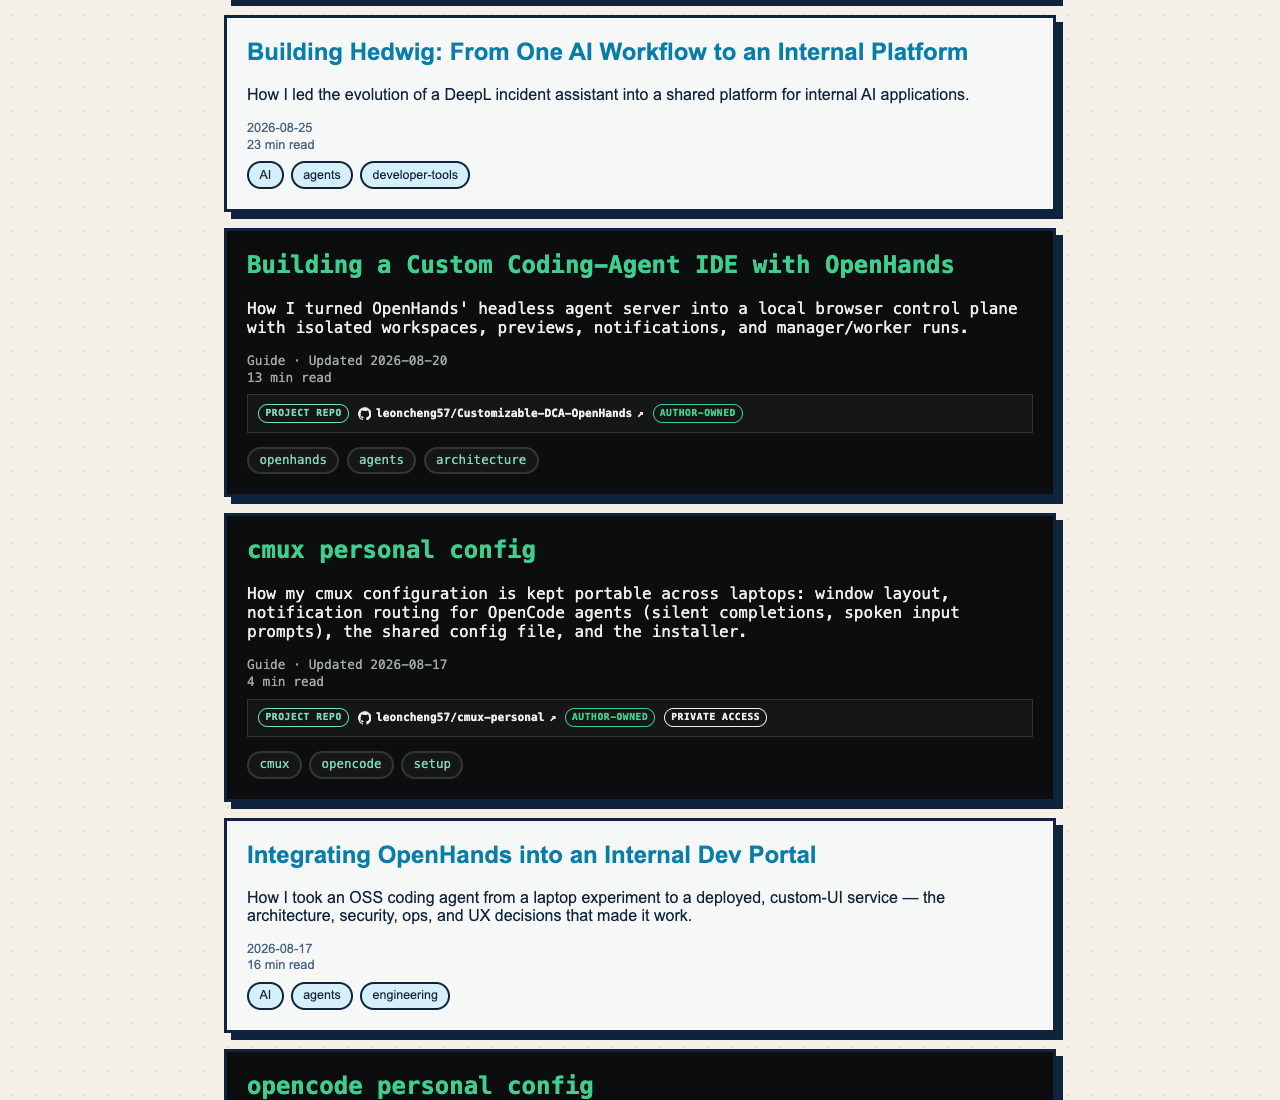
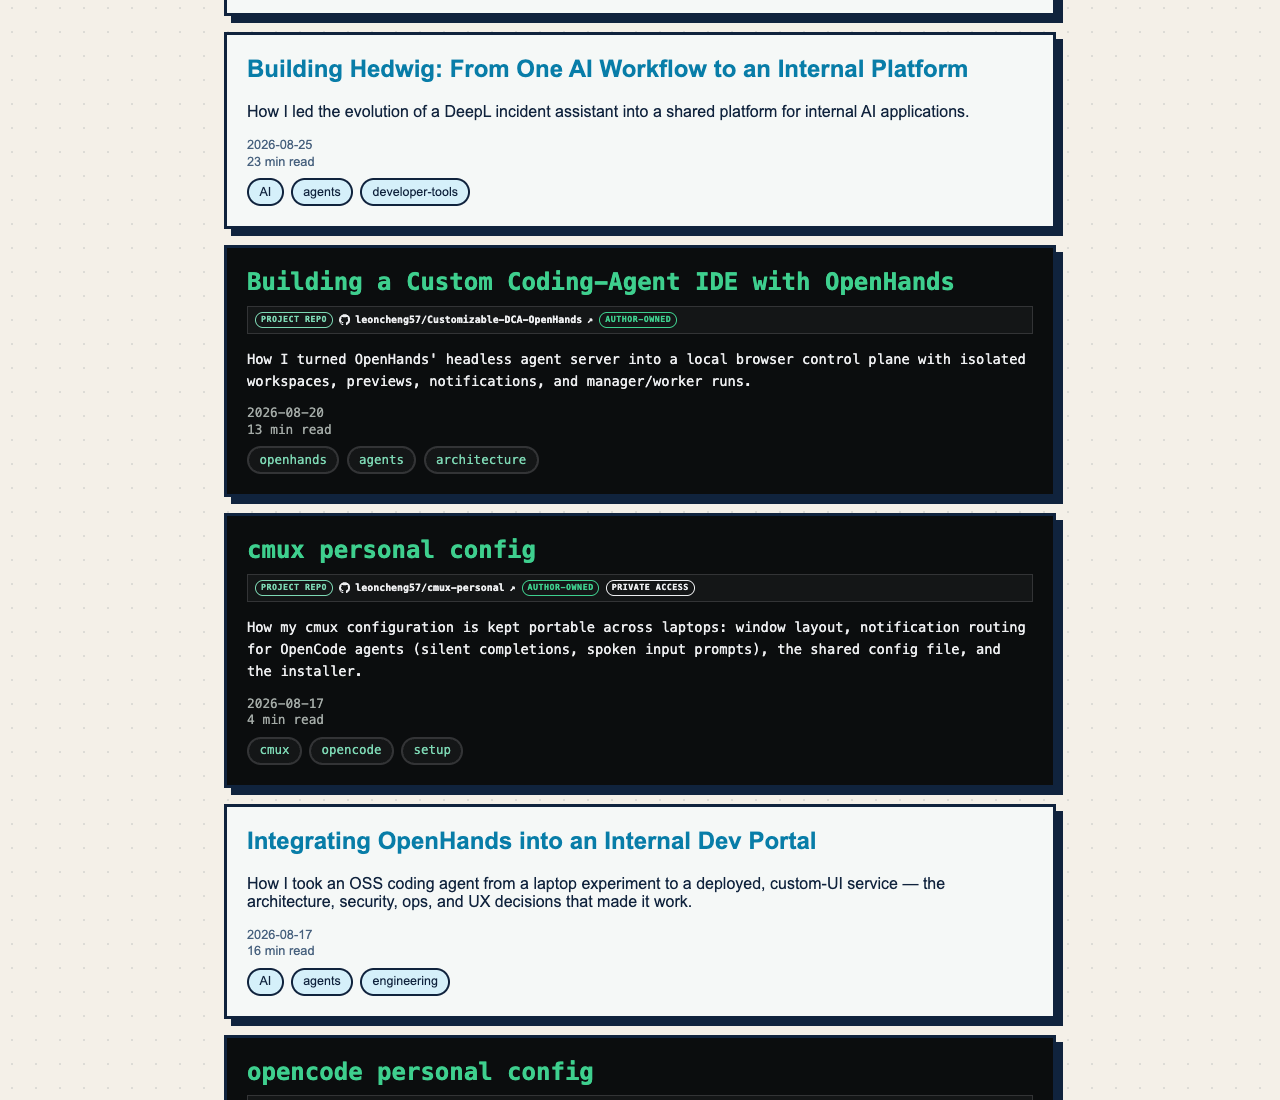
Compact guide descriptions and move repository details below titles

Changed region(s): [[0.1562, 0.0, 0.8438, 0.4018], [0.1562, 0.5255, 0.8438, 1.0]]

diff --git a/src/features/blog/routes/BlogIndexRoute.tsx b/src/features/blog/routes/BlogIndexRoute.tsx
@@ -140,12 +140,16 @@ export default function BlogIndexRoute(): ReactElement {
               <h2>
                 <Link to={post.href}>{post.title}</Link>
               </h2>
+              {post.guide ? (
+                <div className={styles.feedRepo}>
+                  <GuideRepoReference repoUrl={post.guide.repoUrl} repoAccess={post.guide.repoAccess} repoScope={post.guide.repoScope} />
+                </div>
+              ) : null}
               <p>{post.description}</p>
               <div className={styles.indexMeta}>
-                <p>{post.kind === 'Guide' ? 'Guide · Updated ' : ''}<time dateTime={post.date}>{post.date}</time></p>
+                <p><time dateTime={post.date}>{post.date}</time></p>
                 {post.readingTimeMinutes ? <p>{post.readingTimeMinutes} min read</p> : null}
               </div>
-              {post.guide ? <GuideRepoReference repoUrl={post.guide.repoUrl} repoAccess={post.guide.repoAccess} repoScope={post.guide.repoScope} /> : null}
               <TagList
                 tags={post.tags}
                 selectedTags={selectedTags}

diff --git a/src/features/blog/blog.module.css b/src/features/blog/blog.module.css
@@ -538,3 +538,29 @@
   background: var(--term-accent);
   color: var(--term-bg);
 }
+
+.feedGuide > p {
+  font-size: 0.86rem;
+  line-height: 1.6;
+}
+
+.feedGuide h2 {
+  margin-bottom: 0.6rem;
+}
+
+.feedRepo > div {
+  margin: 0 0 0.6rem;
+  padding: 0.3rem 0.45rem;
+  gap: 0.3rem 0.4rem;
+  font-size: 0.62rem;
+}
+
+.feedRepo > div > span {
+  padding: 0.1rem 0.3rem;
+  font-size: 0.52rem;
+}
+
+.feedRepo svg {
+  width: 0.7rem;
+  height: 0.7rem;
+}
